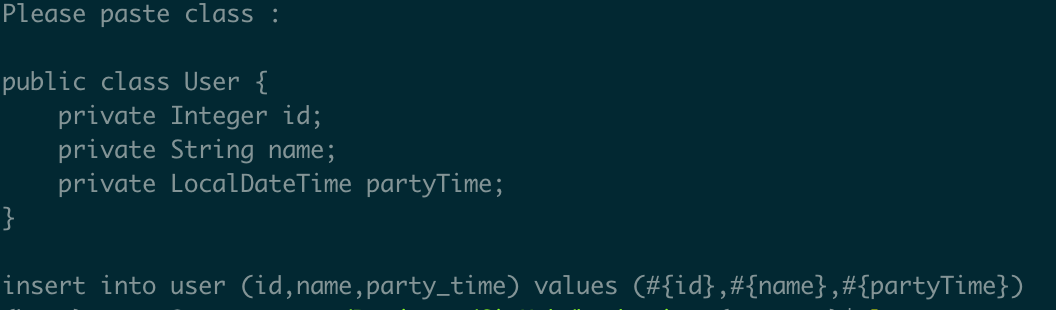
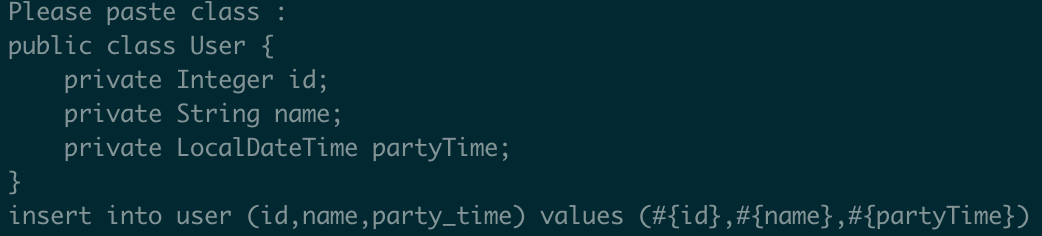
update

diff --git a/str_camel_2_snake.py b/str_camel_2_snake.py
@@ -10,6 +10,7 @@ def camel_to_underline(camel_format):
     if not isinstance(camel_format, str):
         return None
 
+    camel_format = camel_format.strip()
     rest = [x if x.islower() else '_' + x.lower() for x in camel_format[1:]]
     return camel_format[0].lower() + ''.join(rest)
 

diff --git a/str_snake_2_camel.py b/str_snake_2_camel.py
@@ -10,6 +10,7 @@ def underline_to_camel(underline_format):
     if not isinstance(underline_format, str):
         return None
 
+    underline_format = underline_format.strip()
     arr = underline_format.split('_')
     rest = [x.capitalize() for x in arr[1:]]
 

diff --git a/_sys.py b/_sys.py
@@ -2,7 +2,7 @@ import sys
 
 
 def read(s="Please input something"):
-    print(s, ":\n")
+    print(s, ":")
     arr = [line for line in sys.stdin]
     return ''.join(arr)
 

diff --git a/README.md b/README.md
@@ -13,3 +13,21 @@ some utils by python
     转换JavaBean至mybatis的insertAll语句
 
     ![image-20181205190139564](./images/sql_insert_all.png)
+
+  - ./sql_select.py
+
+    转换JavaBean至select all语句
+
+    ![image-20181205190139564](./images/sql_select.png)
+
+  - ./str_camel_2_snake.py
+
+    字符串驼峰转下划线
+
+    ![image-20181205190139564](./images/str_camel_2_snake.png)
+
+  - ./str_snake_2_camel.py
+
+    字符串下划线换驼峰
+
+    ![image-20181205190139564](./images/str_snake_2_camel.png)
